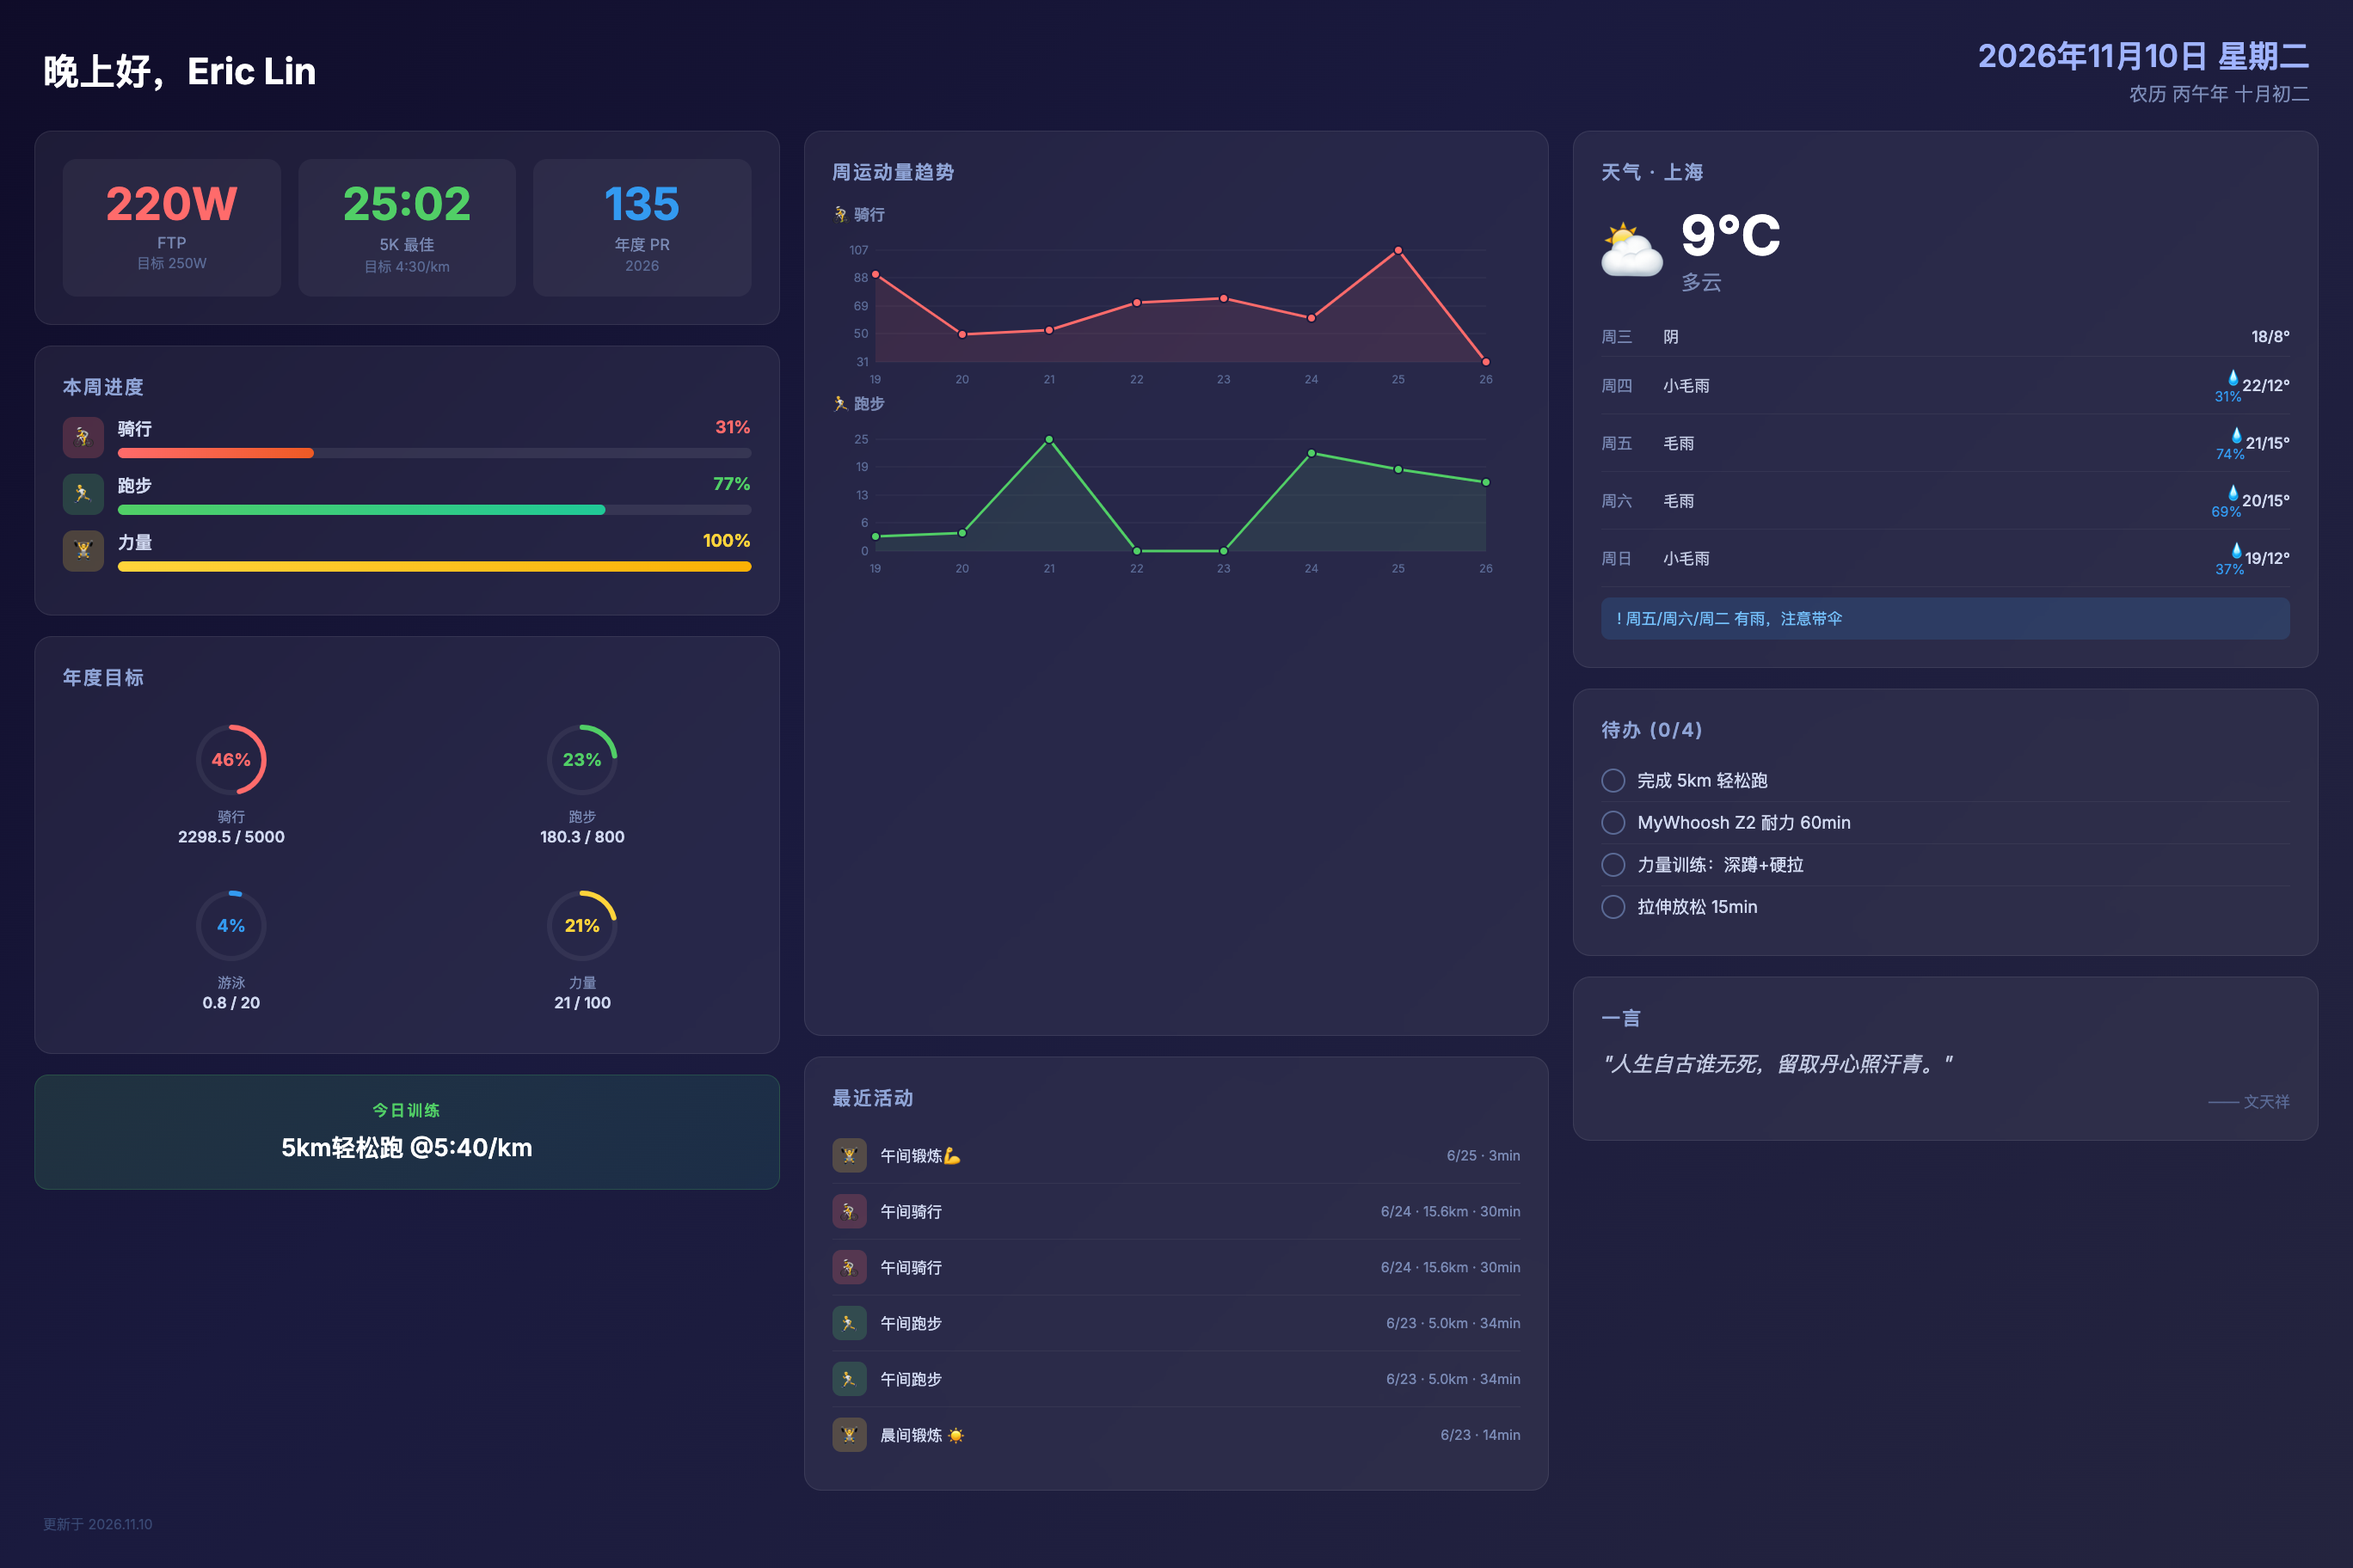
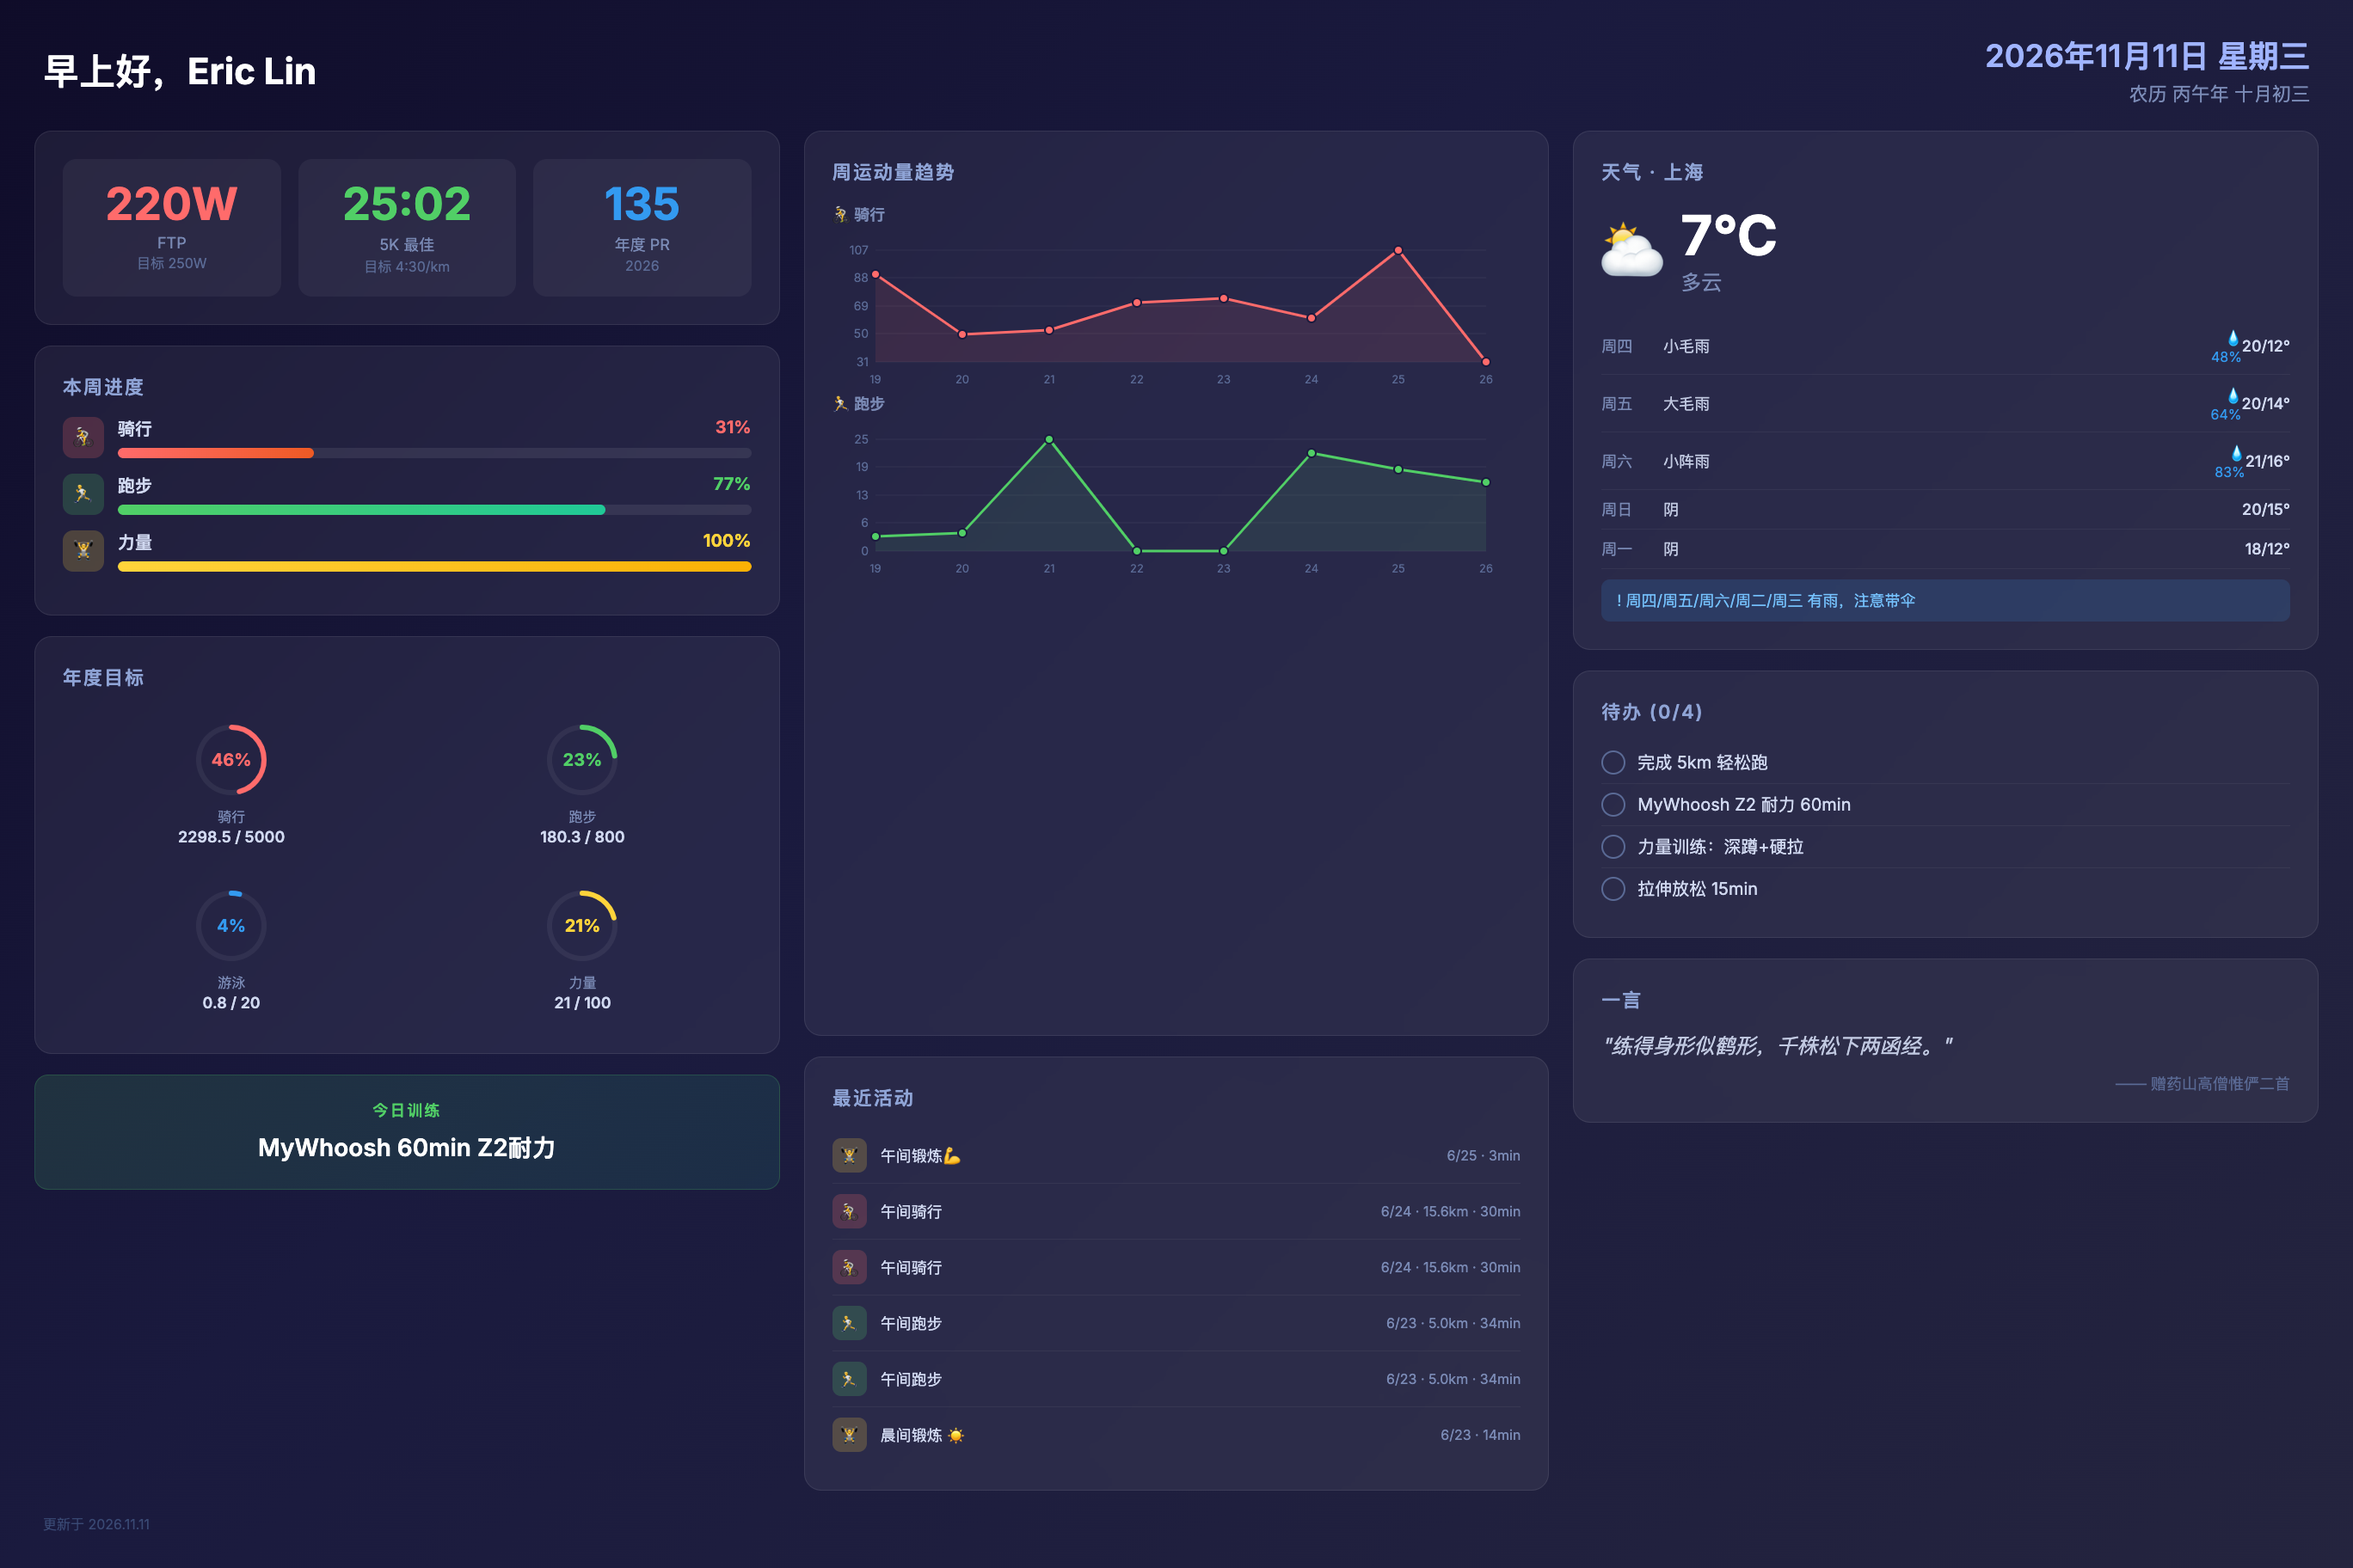
deploy: 2026-11-11-07:00

diff --git a/screensaver.html b/screensaver.html
@@ -490,13 +490,13 @@ html, body {
 <!-- ===== TOP BAR ===== -->
 <div class="top-bar">
   <div>
-    <div class="greeting">晚上好，Eric Lin</div>
+    <div class="greeting">早上好，Eric Lin</div>
     
   </div>
   <div class="date-info">
-    <div class="solar-date">2026年11月10日 星期二</div>
+    <div class="solar-date">2026年11月11日 星期三</div>
     
-    <div class="lunar-date">农历 丙午年 十月初二</div>
+    <div class="lunar-date">农历 丙午年 十月初三</div>
     
   </div>
 </div>
@@ -638,7 +638,7 @@ html, body {
   
   <div class="ai-today-card">
     <div class="ai-today-label">今日训练</div>
-    <div class="ai-today-text">5km轻松跑 @5:40/km</div>
+    <div class="ai-today-text">MyWhoosh 60min Z2耐力</div>
   </div>
   
 
@@ -786,50 +786,50 @@ html, body {
     <div class="weather-current">
       <div class="weather-icon-big">⛅</div>
       <div>
-        <div class="weather-temp-big">9°C</div>
+        <div class="weather-temp-big">7°C</div>
         <div class="weather-desc">多云</div>
       </div>
     </div>
     
     
     <div class="forecast-row">
-      <div class="forecast-day">周三</div>
-      <div class="forecast-desc">阴</div>
-      <div class="forecast-precip"></div>
-      <div class="forecast-range">18/8°</div>
-    </div>
-    
-    <div class="forecast-row">
       <div class="forecast-day">周四</div>
       <div class="forecast-desc">小毛雨</div>
-      <div class="forecast-precip">💧31%</div>
-      <div class="forecast-range">22/12°</div>
+      <div class="forecast-precip">💧48%</div>
+      <div class="forecast-range">20/12°</div>
     </div>
     
     <div class="forecast-row">
       <div class="forecast-day">周五</div>
-      <div class="forecast-desc">毛雨</div>
-      <div class="forecast-precip">💧74%</div>
-      <div class="forecast-range">21/15°</div>
+      <div class="forecast-desc">大毛雨</div>
+      <div class="forecast-precip">💧64%</div>
+      <div class="forecast-range">20/14°</div>
     </div>
     
     <div class="forecast-row">
       <div class="forecast-day">周六</div>
-      <div class="forecast-desc">毛雨</div>
-      <div class="forecast-precip">💧69%</div>
-      <div class="forecast-range">20/15°</div>
+      <div class="forecast-desc">小阵雨</div>
+      <div class="forecast-precip">💧83%</div>
+      <div class="forecast-range">21/16°</div>
     </div>
     
     <div class="forecast-row">
       <div class="forecast-day">周日</div>
-      <div class="forecast-desc">小毛雨</div>
-      <div class="forecast-precip">💧37%</div>
-      <div class="forecast-range">19/12°</div>
+      <div class="forecast-desc">阴</div>
+      <div class="forecast-precip"></div>
+      <div class="forecast-range">20/15°</div>
+    </div>
+    
+    <div class="forecast-row">
+      <div class="forecast-day">周一</div>
+      <div class="forecast-desc">阴</div>
+      <div class="forecast-precip"></div>
+      <div class="forecast-range">18/12°</div>
     </div>
     
     
     
-    <div class="rain-alert">! 周五/周六/周二 有雨，注意带伞</div>
+    <div class="rain-alert">! 周四/周五/周六/周二/周三 有雨，注意带伞</div>
     
   </div>
   
@@ -878,9 +878,9 @@ html, body {
   
   <div class="card">
     <div class="card-title">一言</div>
-    <div class="quote-text">"人生自古谁无死，留取丹心照汗青。"</div>
+    <div class="quote-text">"练得身形似鹤形，千株松下两函经。"</div>
     
-    <div class="quote-from">—— 文天祥</div>
+    <div class="quote-from">—— 赠药山高僧惟俨二首</div>
     
   </div>
   
@@ -889,7 +889,7 @@ html, body {
 
 <!-- ===== BOTTOM BAR ===== -->
 <div class="bottom-bar">
-  <div class="update-time">更新于 2026.11.10</div>
+  <div class="update-time">更新于 2026.11.11</div>
 </div>
 
 </div>

diff --git a/life.html b/life.html
@@ -89,7 +89,7 @@ html, body {
 <table class="header-table">
   <tr>
     <td class="header-left">生活</td>
-    <td class="header-right">2026.11.10</td>
+    <td class="header-right">2026.11.11</td>
   </tr>
 </table>
 
@@ -138,7 +138,7 @@ html, body {
   <table class="weather-table">
     <tr>
       <td class="weather-icon">~</td>
-      <td class="weather-temp">9°C</td>
+      <td class="weather-temp">7°C</td>
       <td class="weather-desc">多云</td>
     </tr>
   </table>
@@ -146,58 +146,58 @@ html, body {
   <table class="forecast-table">
     
     <tr>
-      <td class="forecast-day">周三</td>
-      <td class="forecast-icon">~</td>
-      <td>阴</td>
-      <td class="forecast-range">18/8°C</td>
-    </tr>
-    
-    <tr>
       <td class="forecast-day">周四</td>
       <td class="forecast-icon">.</td>
       <td>小毛雨</td>
-      <td class="forecast-range">22/12°C</td>
+      <td class="forecast-range">20/12°C</td>
     </tr>
     
     <tr>
       <td class="forecast-day">周五</td>
       <td class="forecast-icon">.</td>
-      <td>毛雨</td>
-      <td class="forecast-range">21/15°C</td>
+      <td>大毛雨</td>
+      <td class="forecast-range">20/14°C</td>
     </tr>
     
     <tr>
       <td class="forecast-day">周六</td>
       <td class="forecast-icon">.</td>
-      <td>毛雨</td>
-      <td class="forecast-range">20/15°C</td>
+      <td>小阵雨</td>
+      <td class="forecast-range">21/16°C</td>
     </tr>
     
     <tr>
       <td class="forecast-day">周日</td>
-      <td class="forecast-icon">.</td>
-      <td>小毛雨</td>
-      <td class="forecast-range">19/12°C</td>
+      <td class="forecast-icon">~</td>
+      <td>阴</td>
+      <td class="forecast-range">20/15°C</td>
     </tr>
     
     <tr>
       <td class="forecast-day">周一</td>
       <td class="forecast-icon">~</td>
       <td>阴</td>
-      <td class="forecast-range">19/12°C</td>
+      <td class="forecast-range">18/12°C</td>
     </tr>
     
     <tr>
       <td class="forecast-day">周二</td>
       <td class="forecast-icon">.</td>
-      <td>小毛雨</td>
-      <td class="forecast-range">17/11°C</td>
+      <td>小阵雨</td>
+      <td class="forecast-range">19/11°C</td>
+    </tr>
+    
+    <tr>
+      <td class="forecast-day">周三</td>
+      <td class="forecast-icon">.</td>
+      <td>毛雨</td>
+      <td class="forecast-range">16/5°C</td>
     </tr>
     
   </table>
   
   
-  <div class="rain-alert">! 周五/周六/周二 有雨，注意带伞</div>
+  <div class="rain-alert">! 周四/周五/周六/周二/周三 有雨，注意带伞</div>
   
 </div>
 
@@ -207,10 +207,10 @@ html, body {
   <p class="section-title">📅 今日</p>
   <table class="data-table">
     <tr>
-      <td>2026年11月10日 星期一</td>
+      <td>2026年11月11日 星期二</td>
     </tr>
     <tr>
-      <td>农历丙午年 十月初二</td>
+      <td>农历丙午年 十月初三</td>
     </tr>
   </table>
 </div>
@@ -261,9 +261,9 @@ html, body {
 
 <div class="box">
   <p class="section-title">💬 一言</p>
-  <p class="quote-text">人生自古谁无死，留取丹心照汗青。</p>
+  <p class="quote-text">练得身形似鹤形，千株松下两函经。</p>
   
-  <p class="quote-from">—— 文天祥</p>
+  <p class="quote-from">—— 赠药山高僧惟俨二首</p>
   
 </div>
 

diff --git a/index.html b/index.html
@@ -74,7 +74,7 @@ html, body {
 <table class="header-table">
   <tr>
     <td class="header-left">Eric Lin · 运动</td>
-    <td class="header-right">2026.11.10</td>
+    <td class="header-right">2026.11.11</td>
   </tr>
 </table>
 
@@ -225,17 +225,10 @@ html, body {
 <div class="ai-plan">
   <div class="ai-plan-title">AI 训练建议</div>
   
-  <div class="ai-today">今日: 阈值训练 3×8min @260W</div>
+  <div class="ai-today">今日: 轻松跑 5km</div>
   
   
   <table class="ai-weekly">
-    
-    <tr>
-      <td class="day">周二</td>
-      
-      <td>阈值训练 3×8min @260W</td>
-      
-    </tr>
     
     <tr>
       <td class="day">周三</td>
@@ -276,6 +269,13 @@ html, body {
       <td class="day">周一</td>
       
       <td class="rest">休息</td>
+      
+    </tr>
+    
+    <tr>
+      <td class="day">周二</td>
+      
+      <td>阈值训练 3×8min @260W</td>
       
     </tr>
     

diff --git a/work.html b/work.html
@@ -89,7 +89,7 @@ html, body {
 <table class="header-table">
   <tr>
     <td class="header-left">工作</td>
-    <td class="header-right">2026.11.10</td>
+    <td class="header-right">2026.11.11</td>
   </tr>
 </table>
 
